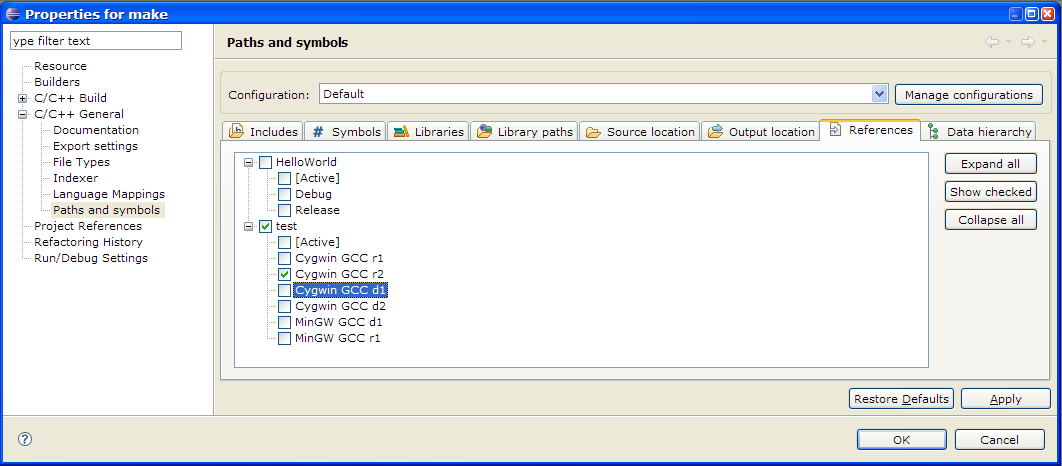
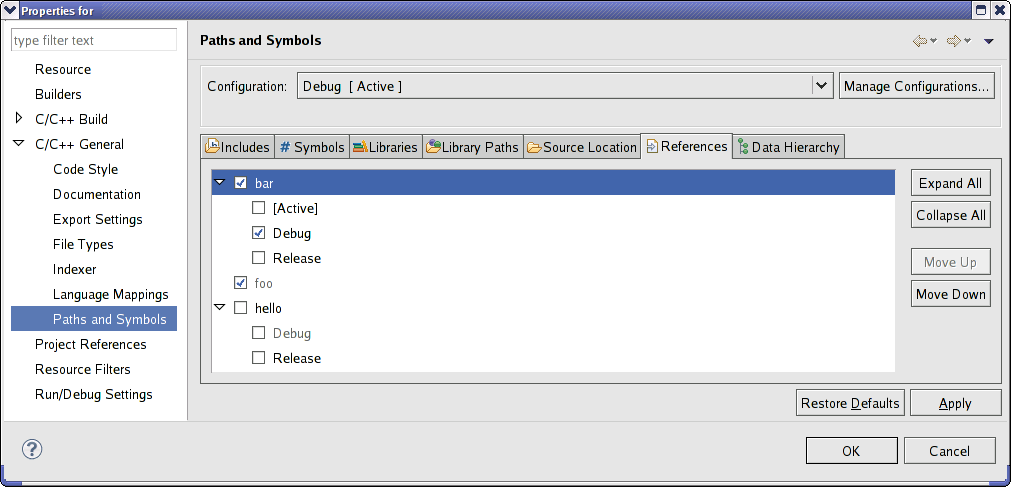
Update References tab documentation for 7

diff --git a/all/org.eclipse.cdt.doc.user/reference/cdt_u_prop_general_pns_ref.htm b/all/org.eclipse.cdt.doc.user/reference/cdt_u_prop_general_pns_ref.htm
@@ -9,26 +9,53 @@
 <body>
 <h1>C/C++ Project Properties, Paths and Symbols, Project References</h1>
 <p>
-User can adjust references among CDT projects.<br>
-Unlike Eclipse Common <a href=cdt_u_prop_ref.htm>References page</a>, 
-current page allows setting references to specific configuration.
-</p>
+Project references are a powerful way of expressing dependencies between
+Build configurations in different projects. Specifically they perform 2 roles:
+<ul>
+<li>Automatic propogation of <a href="cdt_u_prop_general_exp.htm"><i>Exported Settings</i></a> from one project
+to another which depends on it</li>
+<li>Build, if necessary, referenced projects before dependent project</li>
+</ul> 
+<p>
+Unlike the Eclipse Common <a href=cdt_u_prop_ref.htm>References page</a>, 
+this page allows setting references to specific configurations.
+
+<p> <b>Since CDT 7</b> this functionality has been improved:
+<ul>
+<li>
+  <b>Referenced projects are ordered</b><p> and this order can be changed using the buttons provided.
+Referenced projects are built in the order listed in the dialog, and the order is used in the build for setting
+up the Include paths and Library link lines.
+</li>
+<li>
+  <b>Can reference another configuration in the same project</b><p>It's allowed to reference another configuration 
+  in the same project.
+</li>
+<li>
+  <b>Referenced projects which don't exist in the workspace are shown in gray.</b>
+</li>
+</ul>
+
 <p><img img="" src="../images/prop_crefs.png"
  alt="C/C++ Project, Paths and Symbols, Project References"></p>
 <p></p>
 <dl>
   <dt>Projects list (main pane)</dt>
   <dd>Displays all other CDT projects which current project can refer to. 
-  All configurations are displayed for each project. Put check mark on
-  projects and configurations to make them referred. Note that only
-  one configuration can be checked.<br>[Active] configuration presents
-  in each configs list and represents current active configuration.</dd>
+  All configurations are displayed for each project. A check mark indicates the configuration is referenced.
+  Note that only one configuration can be checked in any given project.
+  <br>[Active] configuration presents
+  in each configs list and represents current active configuration.
+  <br> Configurations can reference another configuration in the same project.
+  <br> Referenced projects, which don't exist in the workspace, are shown in gray.</dd>
   <dt>Expand all</dt>
   <dd>Expands all configuration lists</dd>
-  <dt>Show checked</dt>
-  <dd>Expands configuration lists for referred projects only.</dd>
   <dt>Collapse all</dt>
   <dd>Collapses all configuration lists</dd>
+  <dt>Move up</dt>
+  <dd>Move the project up in the references list</dd>
+  <dt>Move down</dt>
+  <dd>Move the project down in the references list</dd>
   <dt><br>Available for :</dt>
   <dd>CDT projects</dd>
 </dl>
